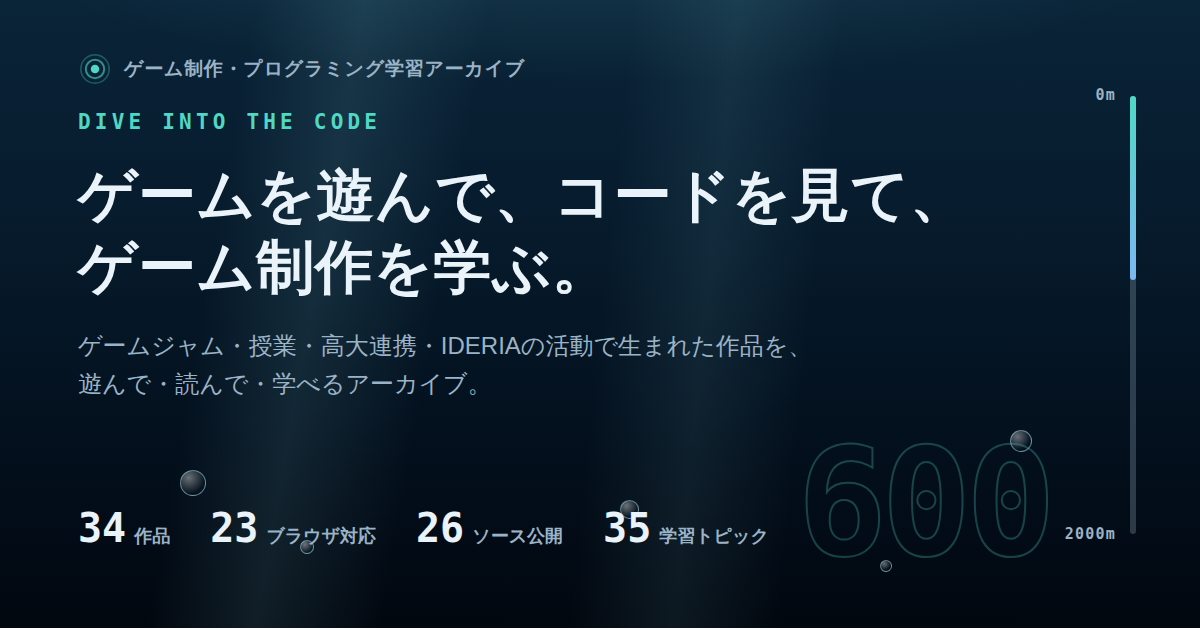
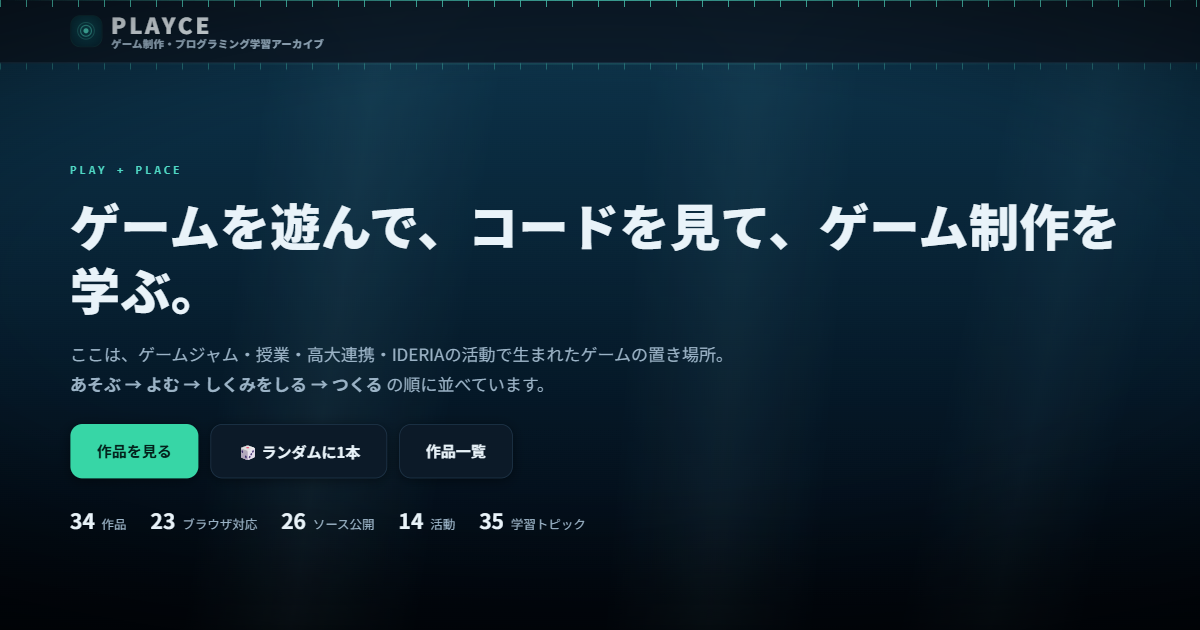
作品一覧の上部を整理し、ライトテーマの不具合とOG画像を修正
作品一覧（/games/）:
- 作品が見えるまでPCで約760px・スマホで約1030pxあったので上部を整理した
- 「プロジェクトから探す」を先頭へ移動（このページの主な導線のため）
- 詳細な絞り込み（年度・種別・ジャンル・技術・制作元など）は全幅で
  既定たたみに。従来はPCで常時展開されていた
- 発見スタンプ・実績は一覧の下へ折りたたんで移動。本題ではないため
- スマホではプロジェクト一覧を横スクロールのチップ列に（11個の縦積みで
  400px近く消費していた）。最初の見出しまで1027px→639px

不具合の修正:
- サムネイルの下地をハードコード(#081521)からテーマ変数 --thumb-bg に。
  ライトテーマで暗い背景に暗い文字が乗り、画像準備中のプレースホルダが
  読めなくなっていた（前回の変更で入れてしまったもの）。
  修正後のコントラスト比 12.9:1

OG画像:
- og-default.png が旧デザイン（深海演出）・旧サイト名のままだったので、
  現在のトップ画面から1200x630で作り直した

内部リンク4402件のリンク切れなしを確認済み。

diff --git a/site/src/styles.css b/site/src/styles.css
@@ -17,6 +17,7 @@
   --shadow:0 2px 12px rgba(0,0,0,.45);
   --shadow-hover:0 12px 30px rgba(0,0,0,.6);
   --radius:14px;
+  --thumb-bg:#081521;
   --code-bg:#050e18; --code-tx:#d7e2ec;
   --sea-1:#0a2438; --sea-2:#061a2b; --sea-3:#030f1c; --sea-4:#01070f;
   --layer-ink:1,8,16;
@@ -37,6 +38,7 @@ html[data-theme="light"]{
   --learn:#15598f; --learn-soft:#deecfa;
   --shadow:0 2px 10px rgba(13,35,51,.08);
   --shadow-hover:0 10px 26px rgba(13,35,51,.16);
+  --thumb-bg:#dbe8f2;
   --code-bg:#0b1a26; --code-tx:#dce6ef; --code-ln:#7a89a3;
   --sea-1:#dbecf7; --sea-2:#e6f2f9; --sea-3:#eef5fa; --sea-4:#f4f9fc;
   --layer-ink:150,190,215;
@@ -210,7 +212,7 @@ html[data-theme="light"] .lay-5::after{background:radial-gradient(120% 80% at 50
 /* 一覧のカードは行内で高さを揃える（§1-4-5）。.gi は絞り込み用のラッパー */
 .gi{display:flex}
 .gi > .card{flex:1 1 auto}
-.thumb{position:relative;aspect-ratio:16/10;background:#081521;border-bottom:1px solid var(--line);overflow:hidden}
+.thumb{position:relative;aspect-ratio:16/10;background:var(--thumb-bg);border-bottom:1px solid var(--line);overflow:hidden}
 .thumb img{width:100%;height:100%;object-fit:cover}
 .thumb-ph{display:flex;flex-direction:column;align-items:center;justify-content:center;gap:4px;width:100%;height:100%;
   color:var(--tx-mut);background:repeating-linear-gradient(45deg,var(--bg-soft) 0 14px,color-mix(in srgb,var(--bg-soft) 82%,var(--tx) 5%) 14px 28px)}
@@ -293,8 +295,21 @@ html[data-theme="light"] a.chip:hover{filter:brightness(.96)}
   border:1px solid var(--line);border-radius:999px;padding:2px 9px}
 .proj-summary{margin:8px 0 0;font-size:13.5px;color:var(--tx-mut);max-width:70ch}
 .proj-more{margin:8px 0 0;font-size:13px}
+@media(max-width:700px){
+  /* 11個が縦積みになると作品まで遠いので、横スクロールの並びにする（.badge-shelf と同じ方式）*/
+  .proj-jump{flex-wrap:nowrap;overflow-x:auto;-webkit-overflow-scrolling:touch;padding:12px}
+  .proj-jump a{flex:0 0 auto}
+  .proj-jump-h{flex:0 0 auto}
+}
 @media(max-width:560px){.proj-title{font-size:17px}}
 
+/* 発見スタンプ・実績は本題ではないので一覧の下に折りたたむ */
+.dex-fold{margin:40px 0 0;border-top:1px solid var(--line);padding-top:18px}
+.dex-fold > summary{cursor:pointer;font-size:13.5px;font-weight:800;color:var(--tx-mut);
+  padding:10px 0;display:flex;align-items:center}
+.dex-fold > summary:hover{color:var(--accent)}
+.dex-fold[open] > summary{color:var(--tx)}
+.dex-fold .dex-status{margin-top:10px}
 .dex-status{display:flex;flex-wrap:wrap;align-items:center;gap:14px 20px;background:var(--bg-card);border:1px solid var(--line);
   border-radius:var(--radius);padding:14px 18px;margin-bottom:14px;box-shadow:var(--shadow)}
 .dex-count{margin:0;font-weight:900;font-size:15px;white-space:nowrap}
@@ -327,11 +342,11 @@ html.silhouette .game-card:not(.found) .card-summary{filter:blur(3px);user-selec
 .filters{display:flex;flex-direction:column;gap:10px;background:var(--bg-card);border:1px solid var(--line);
   border-radius:var(--radius);padding:14px 16px;margin-bottom:14px;box-shadow:var(--shadow)}
 .filters-row{display:flex;flex-wrap:wrap;gap:10px;align-items:center}
-.filters-more{display:flex;flex-wrap:wrap;gap:10px;align-items:center}
+/* 詳細な絞り込みは既定でたたむ（作品を早く見せるため）。ボタンで開く */
+.filters-more{display:none;flex-wrap:wrap;gap:10px;align-items:center}
+.filters-more.open{display:flex}
 .filters input[type=search]{flex:1 1 220px;min-width:160px}
 @media(max-width:899px){
-  .filters-more{display:none}
-  .filters-more.open{display:flex}
   .filters-more select,.filters-more .btn{flex:1 1 45%}
 }
 .filters input,.filters select{padding:9px 12px;border-radius:10px;border:1px solid var(--line);background:var(--bg);color:var(--tx);

diff --git a/docs/DESIGN_SPEC_V2.md b/docs/DESIGN_SPEC_V2.md
@@ -17,6 +17,7 @@
 | 2026-09-04 | v2.6 | 参加者名を含む作品名を改称。「Einar build（SAM / Boosted platform）」→「SAM / Boosted platform」、ID `contest-einar` → `contest-unity-ue4`（URLは `/games/contest-unity-ue4/`）。旧URLは失効。PRIVACY_CHECK §2 の該当行を対応済みに更新 |
 | 2026-09-04 | v3.0 | **サイト名を「PLAYCE（プレイス）」に変更**（play + place の混成。旧「ゲーム制作・プログラミング学習アーカイブ」は長すぎて名前として機能せず、ヘッダーで切り詰められていた）。あわせて**深海の演出を大幅に削減**し、作品そのものを主役にする方針へ転換（§1・§1-2）。「作品一覧」という呼び方は使わない（§1-3） |
 | 2026-09-04 | v3.1 | 作品一覧を**実施プロジェクトごとのまとまり**に変更（§3-1）。全作品を1つの並びで出すのをやめ、「第4回ゲームジャム」「十人十色ゲームコンテスト」などプロジェクト単位の見出し＋説明＋作品カードにした。冒頭に「プロジェクトから探す」の一覧を追加 |
+| 2026-09-04 | v3.2 | 作品一覧の上部を整理（作品が見えるまで遠かったため）: 「プロジェクトから探す」を先頭へ、詳細な絞り込みは**全幅で既定たたみ**、発見スタンプ・実績は一覧の**下に折りたたみ**へ移動。サムネイルの下地をハードコード(#081521)からテーマ変数 `--thumb-bg` に変更（ライトテーマで暗い背景に暗い文字になり読めなかった不具合）。OG画像 `og-default.png` を新デザイン・新サイト名で作り直し |
 
 ## 1. サイト名とデザインコンセプト
 
